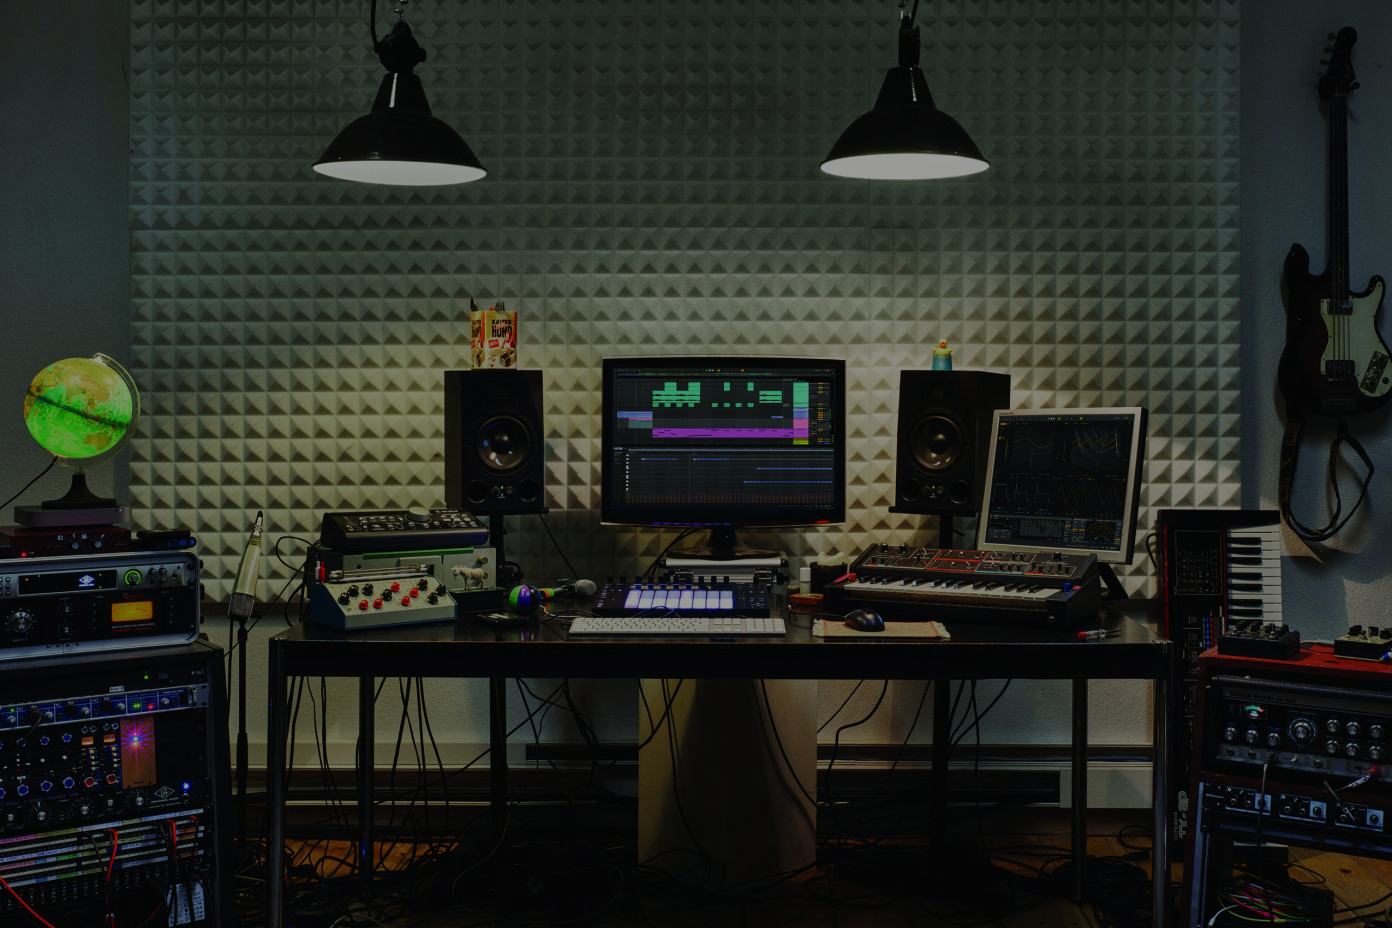
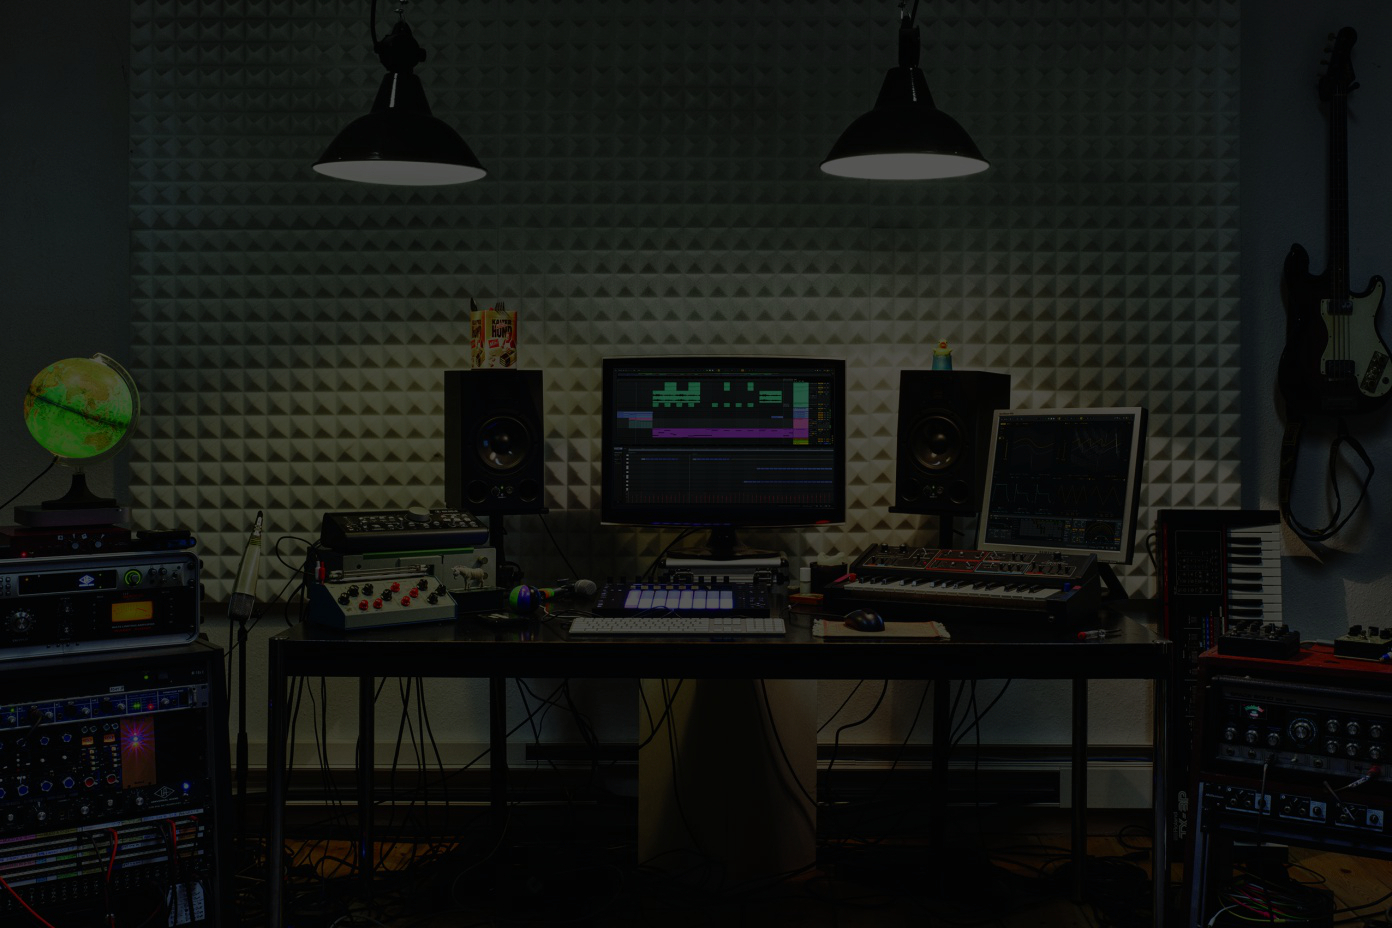
bg edit

diff --git a/styles.css b/styles.css
@@ -79,7 +79,7 @@ li {
   .introbox3
   {
     margin-top: -2em;
-    width: 13em;
+    /* width: 13em; */
     margin-left: 2em;
   }
   #howitworks {
@@ -149,7 +149,7 @@ a {
    align-items: center;
    overflow: hidden;
    font-size: 3vw;
-   max-width: 704px;
+   max-width: 1024px;
    z-index:;
    margin: 0 auto;
 }
@@ -221,17 +221,17 @@ p.mkttext-right {
   margin-bottom: 6em;
   margin-left: 3em;
   }
- @media screen and (max-width: 745px) {
+ @media screen and (max-width: 768px) {
   .introbox1 {
     border-bottom: transparent;
     margin-bottom: -3em;
     margin-right: 0em;
-    margin-top:4em;
+    /* margin-top:4em; */
     font-size: 1.6em;
     /* background-color: transparent; */
   }
     #topsection-bg {
-  background-size: 350%;
+  background-size: 200%;
 }
 #topsection{
   height:65vh;
@@ -326,12 +326,13 @@ p.mkttext-right {
    width: 60%;
    margin-right: 5em;
    position: absolute;
+   margin-top:1.3em;
 }
 .dcontainer h2 {
   font-size: 2.2em;
   color: #cad5e2;
   /* margin-left: -1em; */
-  font-family: quicksand;
+  /* font-family: quicksand; */
 }
 
 
@@ -374,7 +375,7 @@ p.mkttext-right {
   border-radius: .4em;
   width: 73%;
   margin: 0 auto;
-  margin-top: 1em;
+  margin-top: 3em;
   margin-bottom: 2em;
   height: 10em;
   display: flex;
